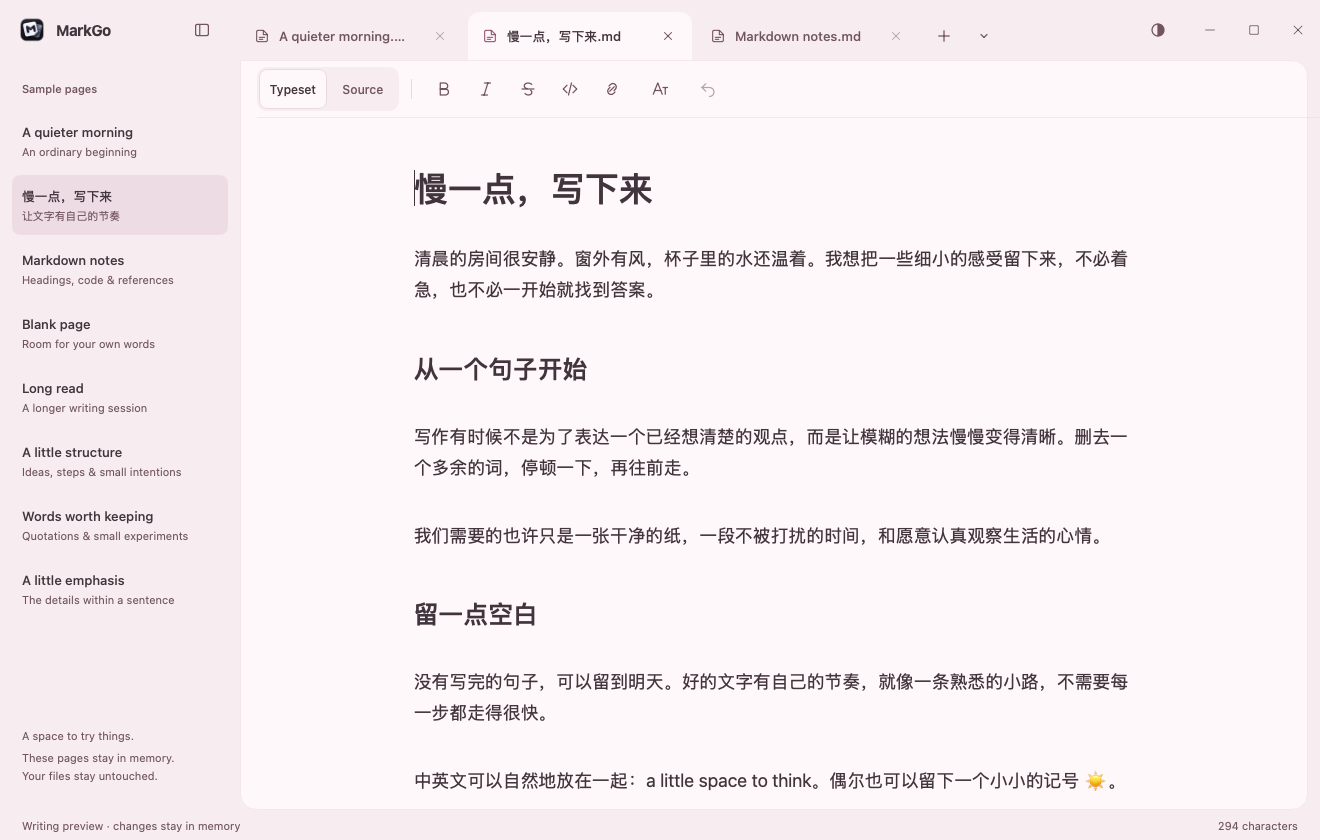
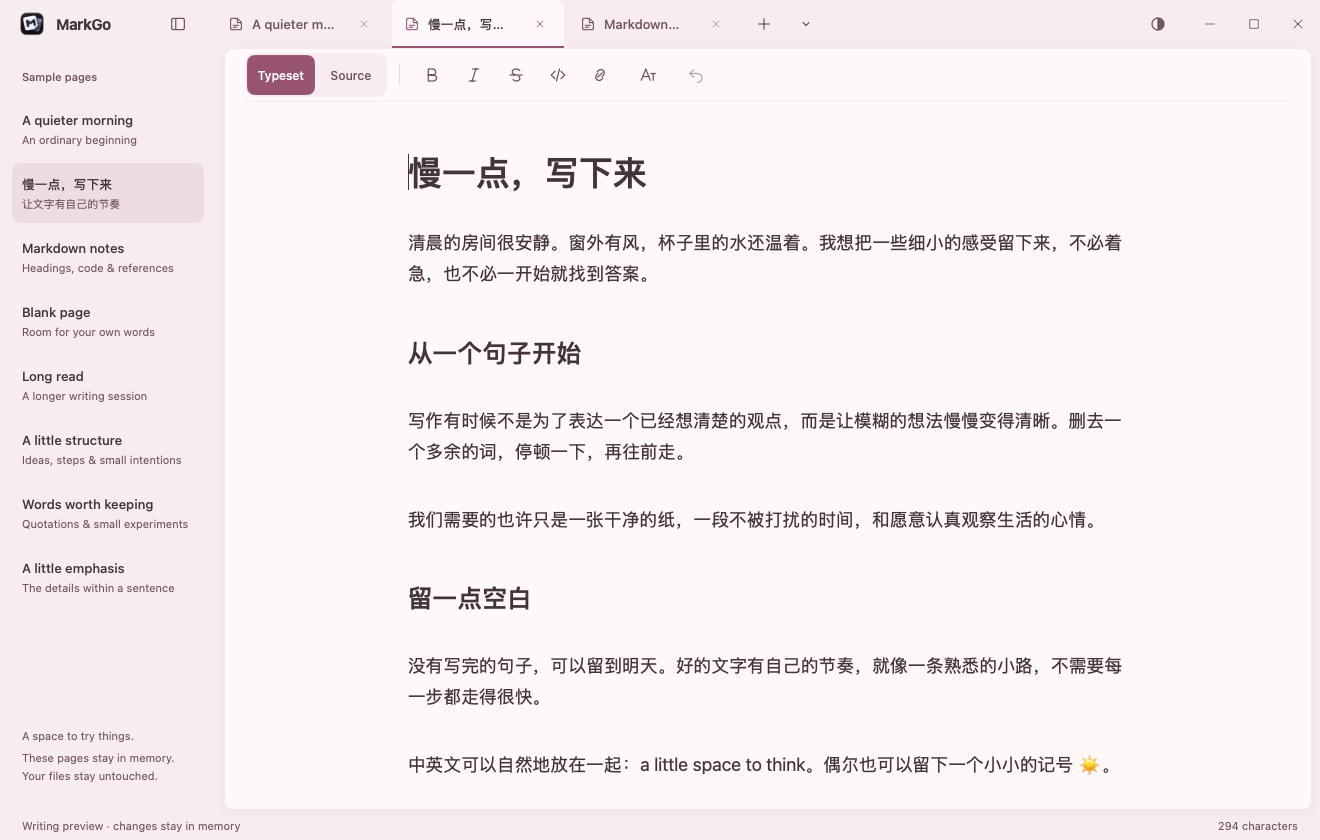
Fix page toolbar alignment and divider overflow

diff --git a/internal/app/chrome.go b/internal/app/chrome.go
@@ -63,7 +63,7 @@ func (a *App) header(c *ui.Context) {
 
 func (a *App) documentToolbar(c *ui.Context, file *mdeditor.File) {
 	t := c.Theme()
-	ui.Row(c.Key("document-toolbar")).FillWidth().Height(52).Padding(6, 20).Gap(12).AlignItems(ui.Center).Children(func() {
+	pageToolbar(c.Key("document-toolbar")).Gap(12).Children(func() {
 		ui.Row(c.Key("writing-mode")).Height(44).Padding(2).Gap(2).Radius(10).Background(t.Surface).Shrink(0).Children(func() {
 			for _, mode := range []struct {
 				label, name string
@@ -94,7 +94,7 @@ func (a *App) documentToolbar(c *ui.Context, file *mdeditor.File) {
 			writingui.Surface(c, panel).Width(248).Padding(8).Margin(8, 0, 0).Children(func() { a.blockFormatting(c, file) })
 		})
 	})
-	ui.Box(c).FillWidth().Height(1).MarginX(20).Background(t.Border.Alpha(0.4))
+	pageToolbarDivider(c)
 }
 
 func (a *App) documentMenu(m *ui.Menu) {

diff --git a/internal/app/typesetting_preview.go b/internal/app/typesetting_preview.go
@@ -174,7 +174,7 @@ func (p *TypesettingPreview) View(c *ui.Context) {
 func (p *TypesettingPreview) writingToolbar(c *ui.Context) {
 	t, a := c.Theme(), p.shell
 	page := p.current()
-	ui.Row(c.Key("preview-toolbar")).FillWidth().Height(56).Padding(6, 16).Gap(8).AlignItems(ui.Center).Children(func() {
+	pageToolbar(c.Key("preview-toolbar")).Gap(8).Children(func() {
 		ui.Row(c.Key("view-modes")).Height(44).Shrink(0).Padding(2).Radius(10).Background(t.Surface).Gap(2).AlignItems(ui.Center).Children(func() {
 			for _, mode := range []struct {
 				label  string
@@ -301,7 +301,7 @@ func (p *TypesettingPreview) writingToolbar(c *ui.Context) {
 		}
 		ui.Spacer(c)
 	})
-	ui.Box(c).FillWidth().Height(1).MarginX(16).Background(t.Border.Alpha(0.55))
+	pageToolbarDivider(c)
 }
 
 func (p *TypesettingPreview) quickFormatting(c *ui.Context) {

diff --git a/internal/app/page_toolbar.go b/internal/app/page_toolbar.go
@@ -1,0 +1,19 @@
+package app
+
+import "github.com/egoist/mygo/ui"
+
+const pageToolbarInset = 20
+
+// Both writing surfaces share the same frame. The 44 DIP mode group fits
+// inside it with 4 DIP above and below, preserving its 40 DIP button targets.
+func pageToolbar(c *ui.Context) ui.Element {
+	return ui.Row(c).FillWidth().Height(52).Padding(4, pageToolbarInset).AlignItems(ui.Center)
+}
+
+func pageToolbarDivider(c *ui.Context) {
+	// FillWidth already occupies the parent's content width. Keep the inset
+	// inside that width so the rule cannot extend beyond the paper's edge.
+	ui.Box(c.Key("toolbar-divider")).FillWidth().Height(1).PaddingX(pageToolbarInset).Children(func() {
+		ui.Box(c).Fill().Background(c.Theme().Border.Alpha(0.4))
+	})
+}

diff --git a/docs/development/product-polish.md b/docs/development/product-polish.md
@@ -11,6 +11,7 @@ This pass concentrates on the existing native interface. It retains the latest a
 | Document tabs | Open files discoverable only in the sidebar | Full-height 172 × 48 DIP tabs with close/dirty feedback, full-path tooltips, context actions, new document and a bounded overflow menu; duplicate names include folders |
 | Tab navigation | No visible tab navigation | Ctrl+Tab cycling, automatic reveal after navigation/resizing, independent selection/scroll/undo and existing unsaved-close guards; preview sample tabs reopen with edits intact |
 | Page toolbar | All writing actions lived in the title bar or popovers | Write/Read or Typeset/Source beside directly reachable formatting, with labeled paragraph actions instead of a duplicate icon strip, detailed popovers and uncluttered global actions |
+| Toolbar alignment | Main and preview toolbars used different heights and insets; full-width rules plus margins extended past the page | Shared 52 DIP frame, 20 DIP horizontal inset, balanced 4 DIP vertical padding and an inset divider contained within both paper edges; existing 40 DIP targets and tool groups retained |
 | Theme catalog | Three themes; preference/native appearance switches maintained separate ID lists | Twelve complete palettes; one catalog resolves persistence and OS light/dark appearance |
 | Contrast | Secondary ink could become too faint on pressed surfaces; several theme-dependent widget colors inherited OS defaults | Text/secondary ink verified at 4.5:1 or higher on page, rail, hover and pressed surfaces; primary, focus and semantic colors checked too; tooltips and scrollbars use resolved palette colors |
 | Appearance gallery | Three tall cards and unrelated typography buttons | Four columns of compact paper samples, a selected check, current theme name, explicit close action and recessed typeface/width segments |
@@ -41,6 +42,14 @@ This pass concentrates on the existing native interface. It retains the latest a
 
 ![Multi-document editing workspace](../design/images/polish/workspace-editing.png)
 
+## Toolbar alignment verification
+
+The workbench editing/reading images and Sakura writing image above were refreshed for the toolbar alignment fix. The tab geometry remains the full-height design with square lower corners. The comparison below enlarges the actual rendered right edge: the divider now stops inside the paper instead of crossing the outer gutter.
+
+![Toolbar divider before and after](../design/images/polish/toolbar-divider.png)
+
+This follow-up reran the Go/MyGo static checks, the full Go test suite, and 353 workbench, gallery, scale and typesetting renders. Pixel comparisons checked both divider endpoints and the outer gutter in 108 unobscured main/preview scenes across all twelve themes. Visual inspection covered the toolbar in all themes, minimum-size editing, empty editing and preview error feedback. The macOS arm64 Writing Preview bundle built successfully. These are headless rendering and build results; the desktop tool still required the preview application to be opened on the host, so native acceptance remains outstanding.
+
 ## Reproduce rendered evidence
 
 Run these with separate destinations so similarly named recovery and preview scenes cannot overwrite each other:
@@ -54,7 +63,7 @@ MARKGO_SCREENSHOT_DIR="$PWD/build/product-polish-review/rendered" CGO_ENABLED=0 
 MARKGO_SCREENSHOT_DIR="$PWD/build/product-polish-review" CGO_ENABLED=0 go test ./internal/app -run '^TestProductPolishMotion$' -count=1
 ```
 
-The 389 rendered screenshots include all twelve palettes in thirteen gallery scenes: Chinese writing, appearance, maximum Book typography, ordinary editing, reading, find/replace, empty editing, outline, formatting, ordinary-app appearance, focus, document menu and empty recent history. The preview matrix covers 47 editing/overlay/error scenes in Paper, Warm paper and Graphite. Recovery covers its normal, empty, unavailable, conflict and exit/failure flows. Forty-eight multi-document views cover writing, reading, the minimum window and 24 open tabs in every theme. Eight additional renders inspect controls at 1.5× and 2× scale; a 50-frame recording shows actual UI transitions. Layout tests verify the theme controls at 1×, 1.5× and 2×, including non-overlapping targets at 960 × 640.
+The original full polish pass produced 389 rendered screenshots, including all twelve palettes in thirteen gallery scenes: Chinese writing, appearance, maximum Book typography, ordinary editing, reading, find/replace, empty editing, outline, formatting, ordinary-app appearance, focus, document menu and empty recent history. The preview matrix covers 47 editing/overlay/error scenes in Paper, Warm paper and Graphite. Recovery covers its normal, empty, unavailable, conflict and exit/failure flows. Forty-eight multi-document views cover writing, reading, the minimum window and 24 open tabs in every theme. Eight additional renders inspect controls at 1.5× and 2× scale; a 50-frame recording shows actual UI transitions. Layout tests verify the theme controls at 1×, 1.5× and 2×, including non-overlapping targets at 960 × 640.
 
 Behavior regressions check every palette's persisted settings and native appearance selection, source/selection/scroll preservation, pointer cancellation, keyboard activation, Escape/close focus, interrupted panels, undo, field-specific link validation, independent tab histories, guarded closing, overflow keyboard access, resizing and reopening edited preview samples. No fixture touches real user documents or preference stores.
 

diff --git a/CHANGELOG.md b/CHANGELOG.md
@@ -31,7 +31,7 @@ All notable changes to MarkGo are documented here. The format follows [Keep a Ch
 
 ### Changed
 
-- Refined document tabs as compact rounded controls with theme-driven active feedback, plus a separate rounded writing page and quieter sidebar selection.
+- Refined document tabs as compact full-height controls with square lower corners and theme-driven active feedback, plus a separate rounded writing page and quieter sidebar selection.
 - Unified native buttons, inputs and floating panels; refined sidebar type, segmented view controls, dialog spacing and stable footer metrics.
 - Added restrained hover/press feedback throughout formatting, appearance, search and dialog actions, respecting reduced motion.
 - Tuned primary and secondary text contrast across all twelve palettes, including hovered and pressed surfaces.
@@ -39,7 +39,7 @@ All notable changes to MarkGo are documented here. The format follows [Keep a Ch
 - Rebuilt the workspace around a 48 DIP self-drawn tab bar, a 216 DIP navigation rail and a distinct paper surface; retained OS resize edges, close protection and maximize state.
 - Refined Paper, Warm paper, and Graphite; reduced wordmark and icon weight, softened sidebar selection, and added active-tool states and interruptible, reduced-motion-aware panel transitions.
 - Kept keyboard focus in the file list while moving between documents; Enter begins editing the selection.
-- Moved writing modes and common inline actions into a 56 DIP page toolbar, with labeled heading, list and quote actions in the Formatting panel; unified controls and find fields around 40 DIP targets.
+- Moved writing modes and common inline actions into a shared 52 DIP page toolbar in the main application and Writing Preview, with labeled heading, list and quote actions in the Formatting panel; unified controls and find fields around 40 DIP targets.
 - Refined sidebar, outline, reading typography, neutral syntax colors, hover feedback, and save-status presentation.
 - Start with a blank editable document; examples are available from the document menu.
 
@@ -47,6 +47,7 @@ All notable changes to MarkGo are documented here. The format follows [Keep a Ch
 
 ### Fixed
 
+- Page toolbar dividers now stop inside both paper edges, with matching inset and contrast in the main application and Writing Preview.
 - Keyboard theme selection and dismissal now return to the preserved writing caret in both editing modes.
 - Link validation marks the corresponding text or address field and leaves the document unchanged until Apply succeeds.
 - Apply the application icon to native windows and taskbar buttons in development and packaged builds.

diff --git a/docs/design/design-system.md b/docs/design/design-system.md
@@ -8,7 +8,7 @@ The document is the visual center. Navigation supports writing; common formattin
 
 ## Workbench and typography
 
-A 48 DIP self-drawn title bar holds the brand, document tabs and global tools. Full-height tabs with top corners meet the page; a 52 DIP page toolbar separates writing/reading mode from formatting. A 216 DIP sidebar holds Files/Outline, filtering, open documents, the folder tree and Open a folder. The theme's rail color surrounds the paper surface, whose 10 DIP corners and restrained shadow keep it visually separate from the navigation. An 8 DIP gutter keeps the page from touching the sidebar and window edges. A quiet 30 DIP footer reports actual save state, operation messages, caret position and counts.
+A 48 DIP self-drawn title bar holds the brand, document tabs and global tools. Full-height tabs keep rounded top corners and square lower corners; a 52 DIP page toolbar separates writing/reading mode from formatting. The main application and Writing Preview share that toolbar frame: 20 DIP horizontal inset and 4 DIP vertical padding around the 44 DIP mode group, preserving 40 DIP button targets. Its divider has the same 20 DIP inset on both sides, contained within the page, and uses the theme border at 40% opacity. A 216 DIP sidebar holds Files/Outline, filtering, open documents, the folder tree and Open a folder. The theme's rail color surrounds the paper surface, whose 10 DIP corners and restrained shadow keep it visually separate from the navigation. An 8 DIP gutter keeps the page from touching the sidebar and window edges. A quiet 30 DIP footer reports actual save state, operation messages, caret position and counts.
 
 The native title bar and caption buttons are hidden with MyGo's `TitleBarHidden` and `HideWindowButtons`. The OS frame remains responsible for resize edges, rounded corners, and shadows; do not switch to a borderless `Frameless` window. Blank title-bar space drags the window and supports MyGo's native double-click behavior. The custom maximize target registers with `MaximizeButton` for Windows Snap integration. The close action calls `Window.Close`, preserving the existing unsaved-document guard. All three controls remain available in Focus mode.
 
